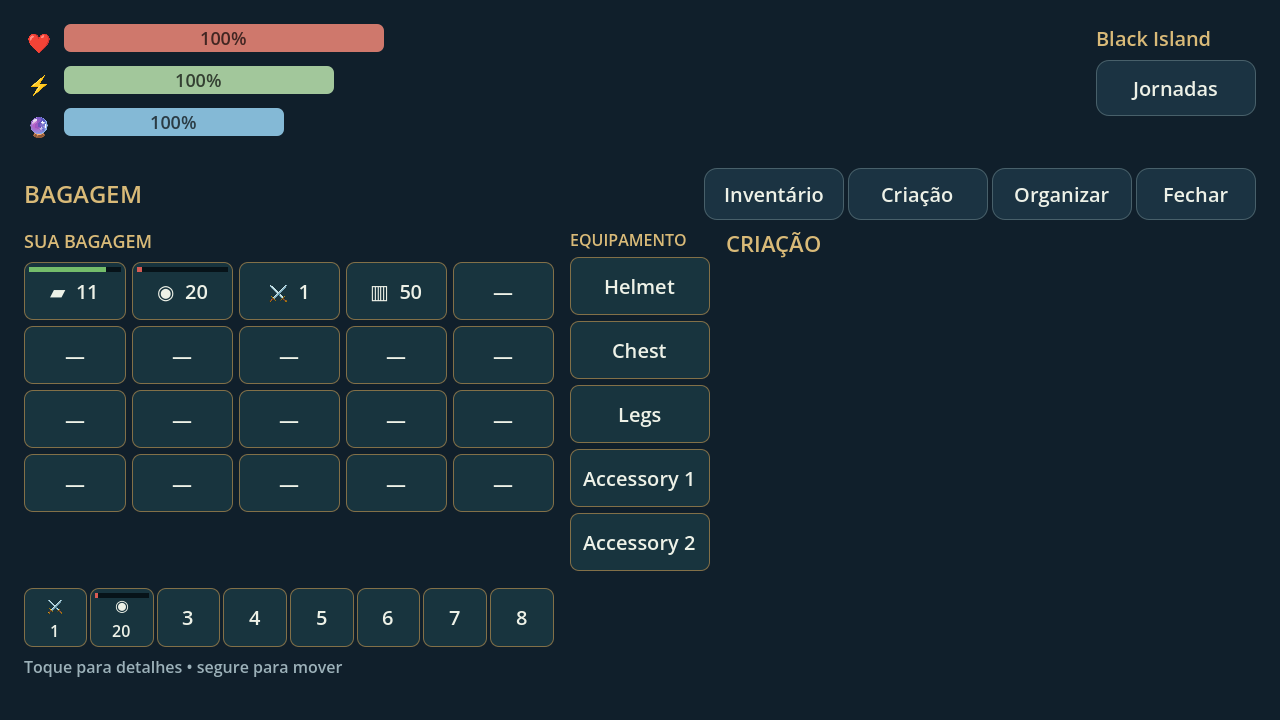
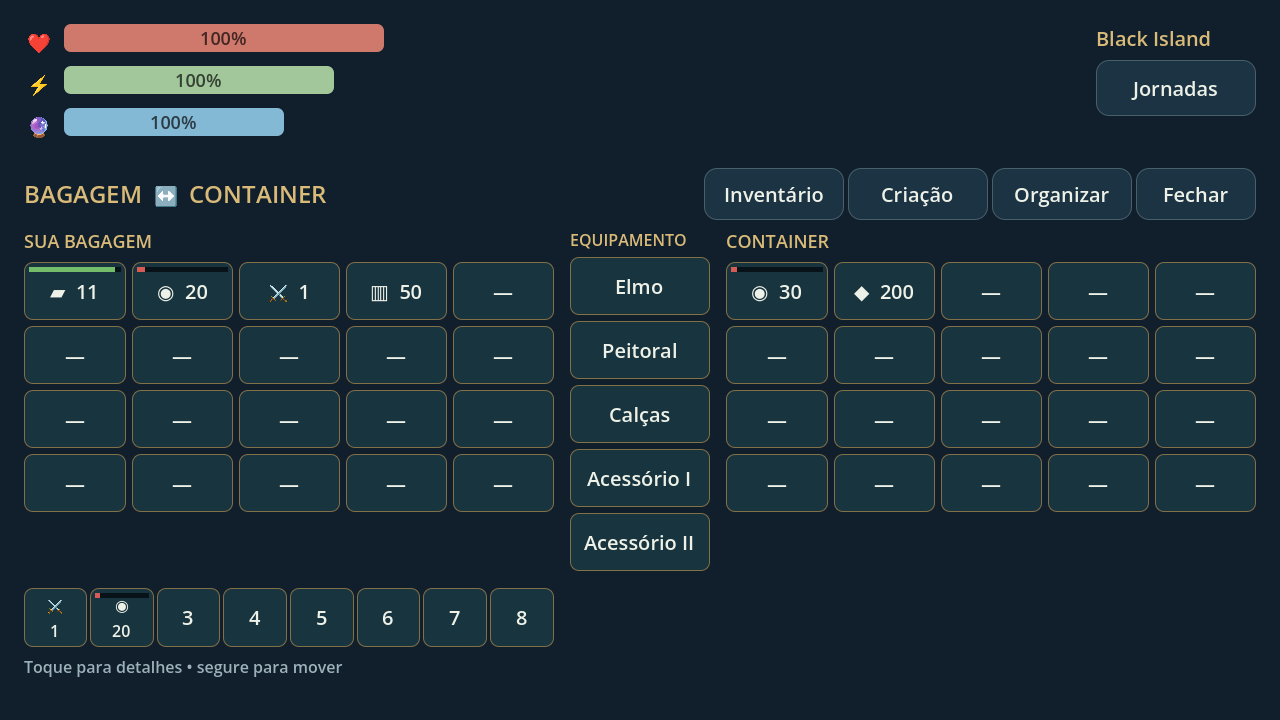
feat: finalize transactional mobile inventory UX

diff --git a/harness/build/S01-RC0-R3-C02.md b/harness/build/S01-RC0-R3-C02.md
@@ -13,3 +13,9 @@ Focused `Rc0R3InventoryA`: PASS35assertions (split1/half/all, metadata inheritan
 Relevant regressions PASS: PlayerC02Smoke, PlayerSaveSmoke, Rc0C02Smoke, Rc0C03Smoke. Also legacy SurfaceC02Smoke transaction stress PASS3000attempts/2000success/1000stale/items500→500, but its6support checks use obsolete pre-R1 1m placement coordinates and fail on the unchanged2m support module. Current Rc0C02Smoke validates the accepted2m support/collision rules; no support code changed for C02. Do not use the old fixture as a new support regression claim.
 
 LSP11modified/domain files clean after editor global-class cache refresh; Serena navigation/semantic method edits used. C02-B UX and C02-C crafting/fuzz are pending, not declared complete.
+
+## C02-B — inventory UX
+
+Protected immediately on resume as WIP `327dbc9`. Production unified safe-area landscape screen now owns presentation only:20slot player,20slot paired container,5equipment,8UID-reference hotbar. Native ScreenTouch/mouse feed one GestureController; thresholds live in data/inventory/interaction.json. Tap deferred for double-tap disambiguation; movement before hold yields to scrolling; hold locks layout until drop. Same-store move/merge/swap is direct intent; cross-store drag opens integer quantity modal with explicit source/destination and no pre-confirm removal. Conditional details/split menu; spoilage bar only reads domain clock. Organize explicit, holes otherwise stable. Production SpinBox transfer UI removed. ContainerAccessPolicy validates reach/availability/authorization; no widget mutates stacks.
+
+Windowed Compatibility/llvmpipe QA `Rc0R3InventoryUX -- --auto`: PASS22assertions, injecting native ScreenTouch/ScreenDrag through Input, including tap/details/no invalid consume action, double-tap max/reverse, longpress ghost/move/swap, partial modal, split1/half/all, inherited/destination freshness, clean context on reopen. Headless input delivery is unavailable in this fixture; gesture test uses real window, not command-only substitution. A's focused merge/domain evidence reused. Godot MCP actual live fixture PASS0projecterrors/0projectwarnings. LSP11changed files clean (corrected QA shadowed variable). Environment audio/VSync fallback is not a project diagnostic. Versioned screenshots: inventory-dual-1280.png, item-details.png under harness/evidence/rc0-r3-inventory. Physical device gestures not validated.
